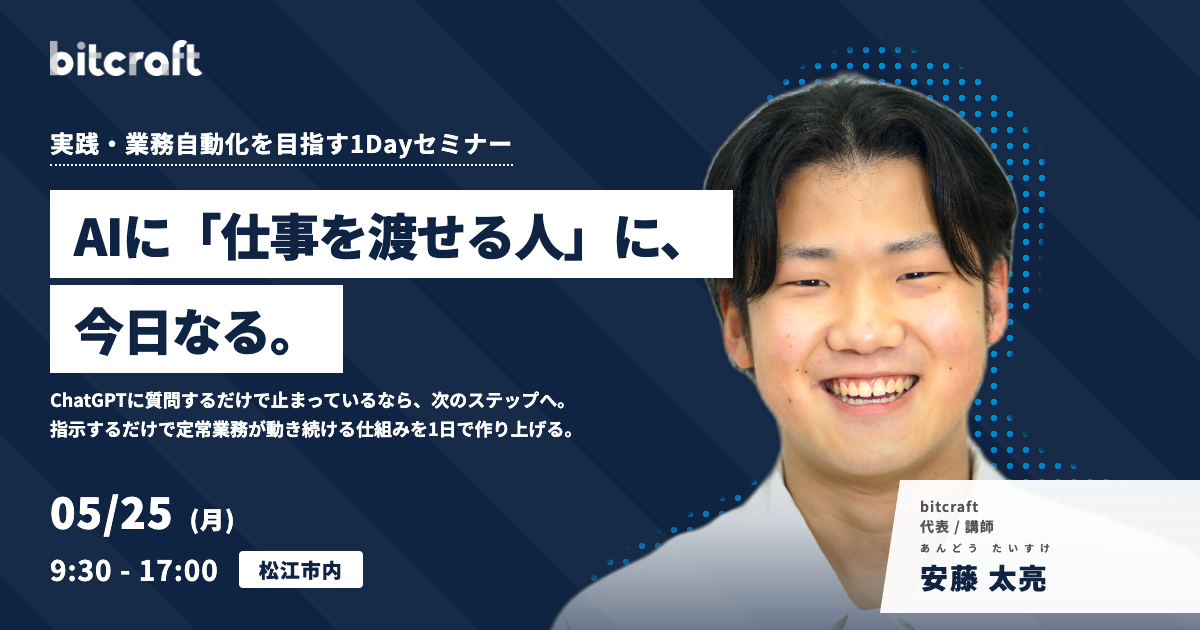
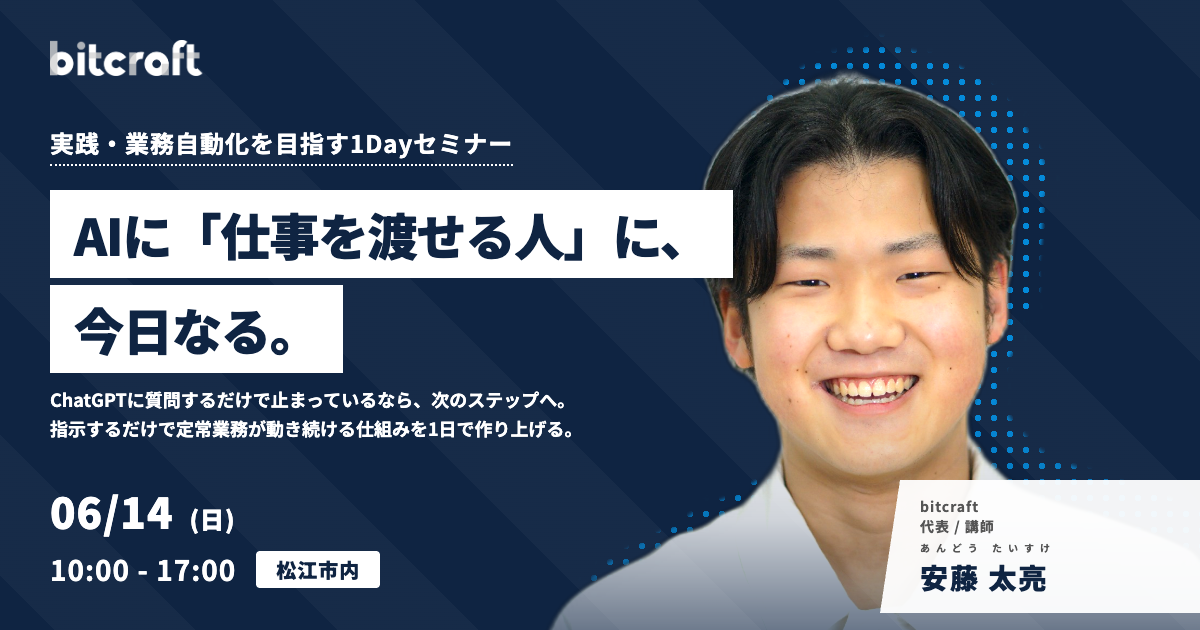
ClaudeCodeセミナーのイベント内容を変更

Changed region(s): [[0.0308, 0.8746, 0.3392, 0.9349], [0.0617, 0.7841, 0.185, 0.8444]]

diff --git a/service/seminar/claude-code-1day/index.html b/service/seminar/claude-code-1day/index.html
@@ -75,7 +75,7 @@
                     <span>/</span>
                     <span>Claude Code 完全攻略1Day</span>
                 </div>
-                <div class="sd-hero__badge">2026年5月25日（月）開催</div>
+                <div class="sd-hero__badge">2026年6月14日（日）開催</div>
                 <h1 class="sd-hero__catch">AIに「仕事を渡せる人」に、<br>今日なる。</h1>
                 <p class="sd-hero__sub">ChatGPTに質問するだけで止まっているなら、次のステップへ。<br>Claude Codeは"道具"ではなく、あなた専用のスタッフです。<br>指示するだけで、書類・請求・定常業務が動き続ける仕組みを<br>1日で作り上げる実践セミナー。</p>
                 <div class="sd-hero__cta-wrap">
@@ -84,8 +84,8 @@
                         <i class="fa-solid fa-arrow-right"></i>
                     </a>
                     <div class="sd-hero__meta">
-                        <span><i class="fa-solid fa-yen-sign"></i> 10,000円（税込）</span>
-                        <span><i class="fa-solid fa-users"></i> 定員20名 <span class="seminar-seats-left">残り3名</span></span>
+                        <span><i class="fa-solid fa-yen-sign"></i> 5,000円（税込）</span>
+                        <span><i class="fa-solid fa-users"></i> 定員20名 <span class="seminar-seats-left">残り7名</span></span>
                     </div>
                 </div>
             </div>
@@ -138,6 +138,11 @@
                         <h3 class="sd-benefit-card__title">明日から使い続けられる「仕組み」を持ち帰れる</h3>
                         <p class="sd-benefit-card__desc">セミナー終了時点で、あなたの実際の業務に合わせた自動化の仕組みが手元にあります。明日から本番で使えます。</p>
                     </div>
+                    <div class="sd-benefit-card">
+                        <div class="sd-benefit-card__num">04</div>
+                        <h3 class="sd-benefit-card__title">1ヶ月間の無料フォローアップ付き</h3>
+                        <p class="sd-benefit-card__desc">セミナー終了後、実際の業務でつまずいたところは、Slackでいつでも質問可能。1ヶ月間、あなたの伴走者としてサポートします。</p>
+                    </div>
                 </div>
             </div>
         </section>
@@ -154,8 +159,8 @@
                         <div class="sd-timeline__time">9:30〜</div>
                         <div class="sd-timeline__dot"></div>
                         <div class="sd-timeline__content">
-                            <h3>なぜ今、Claude Codeなのか</h3>
-                            <p>ChatGPTとの決定的な違い。今日できることを全部見せます。</p>
+                            <h3>受付開始</h3>
+                            <p>10:00より講義を開始いたします。受付までお越しください。</p>
                         </div>
                     </div>
                     <div class="sd-timeline__item">
@@ -233,7 +238,7 @@
                 </div>
                 <div class="sd-voices__grid">
                     <blockquote class="sd-voice-card">
-                        <p class="sd-voice-card__text">「毎月2〜3時間かけていた請求書まわりの作業が、15分で終わるようになりました。」</p>
+                        <p class="sd-voice-card__text">「仕事の性質上、クライアントごとに依存する業務が多かったですが、それらの業務の中から効率化できそうな部分を見極め、Claude Codeを活用することで、業務の品質を維持したまま作業効率を大幅に改善することができました。」</p>
                         <div class="sd-voice-card__author">
                             <i class="fa-solid fa-circle-user sd-voice-card__icon"></i>
                             <div class="sd-voice-card__author-info">
@@ -243,7 +248,7 @@
                         </div>
                     </blockquote>
                     <blockquote class="sd-voice-card">
-                        <p class="sd-voice-card__text">「自分がやりたかったことを言葉にしたら、AIが動くコードを書いてくれた。魔法みたいでした。」</p>
+                        <p class="sd-voice-card__text">「これまで、解像度の低い指示によって多くのトークンを消費してしまうことが多かったですが、的確なツール選択とプロンプトを意識することで、最小限のコストで業務改善を実現できるようになりました。」</p>
                         <div class="sd-voice-card__author">
                             <i class="fa-solid fa-circle-user sd-voice-card__icon"></i>
                             <div class="sd-voice-card__author-info">
@@ -268,22 +273,23 @@
                     <tbody>
                         <tr>
                             <th>日時</th>
-                            <td>2026年5月25日（月） 9:30〜17:00</td>
+                            <td>2026年6月14日（日） 10:00〜17:00</td>
                         </tr>
                         <tr>
                             <th>会場</th>
                             <td>
-                                島根県松江市（※詳細は参加者へ別途ご連絡します）
+                                島根県松江市<br>
+                                ※現時点ではオープンソースラボを予定しておりますが、変更になる可能性もございます。変更がある場合は、参加者へ別途ご連絡いたします。
                                 <iframe src="https://www.google.com/maps?q=島根県松江市&output=embed" class="sd-map-iframe" allowfullscreen="" loading="lazy"></iframe>
                             </td>
                         </tr>
                         <tr>
                             <th>定員</th>
-                            <td>20名（少人数・先着順）<span class="seminar-seats-left" style="margin-left:8px;">残り3名</span></td>
+                            <td>20名（少人数・先着順）<span class="seminar-seats-left" style="margin-left:8px;">残り7名</span></td>
                         </tr>
                         <tr>
                             <th>参加費</th>
-                            <td>10,000円（税込）<br>※セミナー終了後に、ご登録いただいたメールアドレスへ請求書をお送りいたします。</td>
+                            <td>5,000円（税込）<br>※セミナー終了後に、ご登録いただいたメールアドレスへ請求書をお送りいたします。</td>
                         </tr>
                         <tr>
                             <th>持ち物</th>
@@ -379,8 +385,8 @@
                 <p class="sd-cta__sub">1日の終わりに、動くものを手に持って帰ってください。</p>
                 
                 <div class="sd-cta__meta" style="margin-bottom: 24px; color: #fff; text-align: center; font-size: 16px; line-height: 1.8;">
-                    <strong>2026年5月25日（月）9:30〜17:00　松江市内会場</strong><br>
-                    参加費 10,000円（税込）
+                    <strong>2026年6月14日（日）10:00〜17:00　松江市内会場</strong><br>
+                    参加費 5,000円（税込）
                 </div>
 
                 <a class="sd-cta__btn" href="./apply/">

diff --git a/service/seminar/index.html b/service/seminar/index.html
@@ -82,13 +82,13 @@
                             </div>
                             <div class="seminar-card-body">
                                 <div class="seminar-card-meta">
-                                    <span class="seminar-card-date"><i class="fa-regular fa-calendar"></i> 2026年5月25日（月）</span>
+                                    <span class="seminar-card-date"><i class="fa-regular fa-calendar"></i> 2026年6月14日（日）</span>
                                     <span class="seminar-card-type">1Dayセミナー</span>
                                 </div>
                                 <h3 class="seminar-card-title">AIに「仕事を渡せる人」に、今日なる。<br>Claude Code 実践1Dayセミナー</h3>
                                 <p class="seminar-card-desc">ChatGPTに質問するだけで止まっているなら、次のステップへ。指示するだけで、書類・請求・定常業務が動き続ける仕組みを1日で作り上げる実践セミナー。</p>
                                 <div class="seminar-card-info">
-                                    <span class="seminar-card-price">¥10,000 <small>（税別）</small></span>
+                                    <span class="seminar-card-price">¥5,000 <small>（税込）</small></span>
                                     <span class="seminar-card-seats">定員 20名 <span class="seminar-seats-left">残り3名</span></span>
                                 </div>
                                 <div class="seminar-card-cta">
